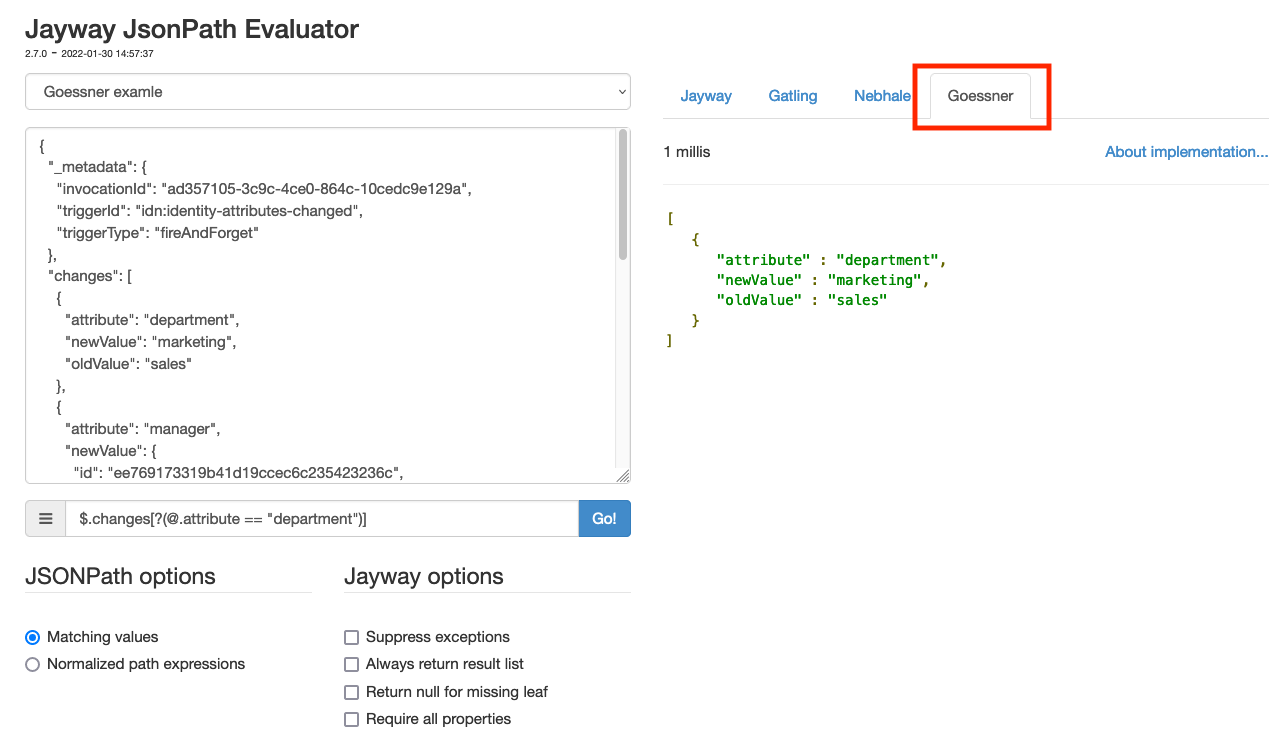
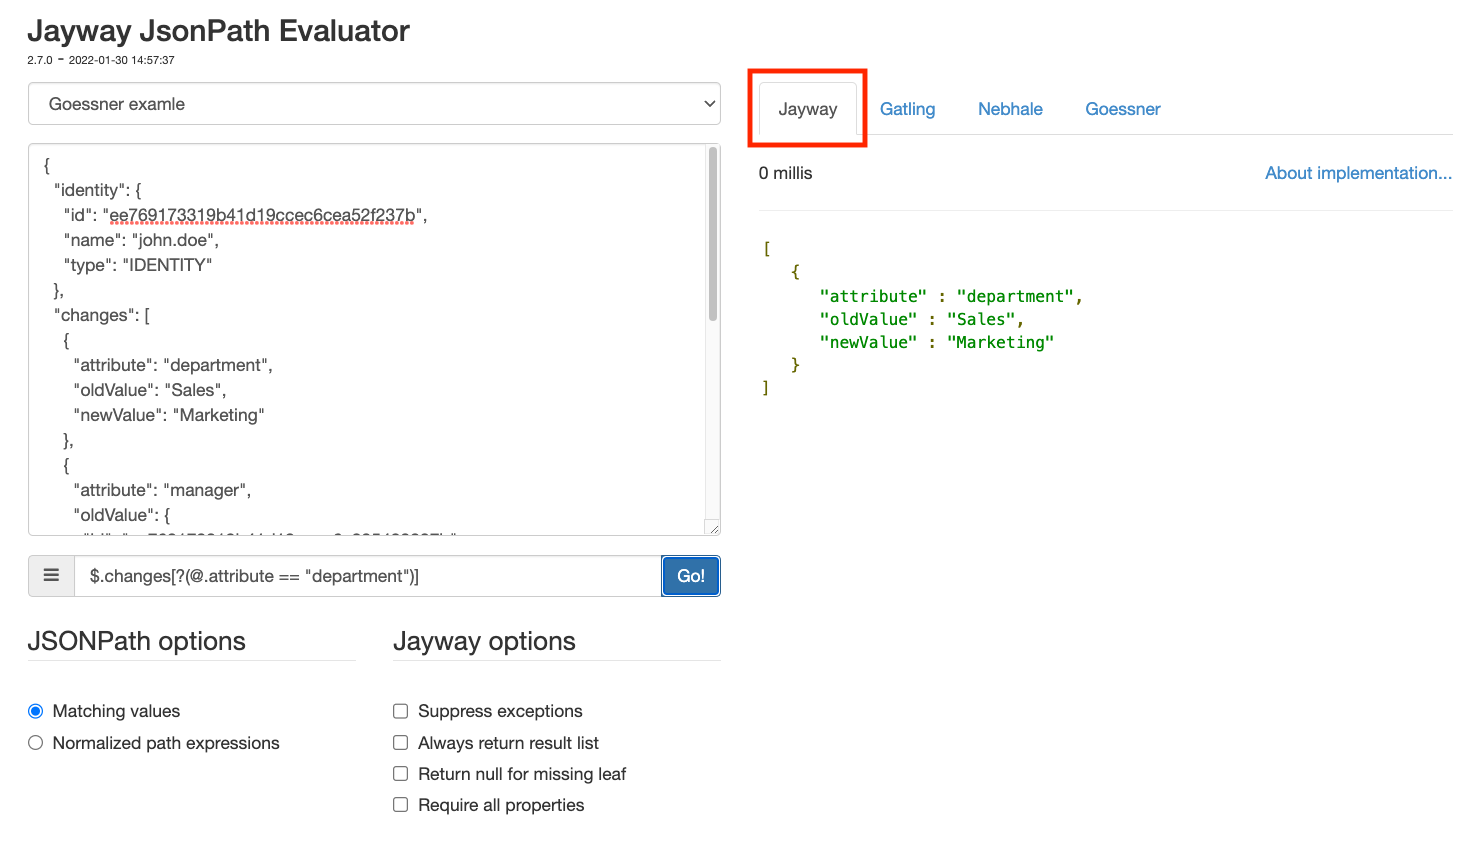
Removed reference to Goessner in ETS filter docs

diff --git a/products/idn/docs/identity-now/event-triggers/filtering-events.md b/products/idn/docs/identity-now/event-triggers/filtering-events.md
@@ -97,14 +97,11 @@ JSONPath operators provide more options to filter JSON structures.
 Developing a filter can be faster when you use a tool like an online
 [JSONpath editor](https://jsonpath.herokuapp.com/). These tools can provide
 quick feedback on your filter, allowing you to focus on the exact filter
-expression you want before testing it in IdentityNow. Be aware, however, that
-these online tools may have subtle differences compared with SailPoint's
-implementation of Goessner JSONpath. Always test your JSONpath filter in
-IdentityNow before using it in production.
+expression you want before testing it on a trigger.
 
 Start by opening a [JSONpath editor](https://jsonpath.herokuapp.com/) in your
 browser. Make sure that the correct implementation is selected if there is more
-than one option. You can then paste in an example trigger input and start
+than one option.  In the case of event trigger filters, you will want to select the **Jayway** option. You can then paste in an example trigger input and start
 crafting your JSONpath expression.
 
 ![JSONPath editor](./img/jsonpath-editor.png)
